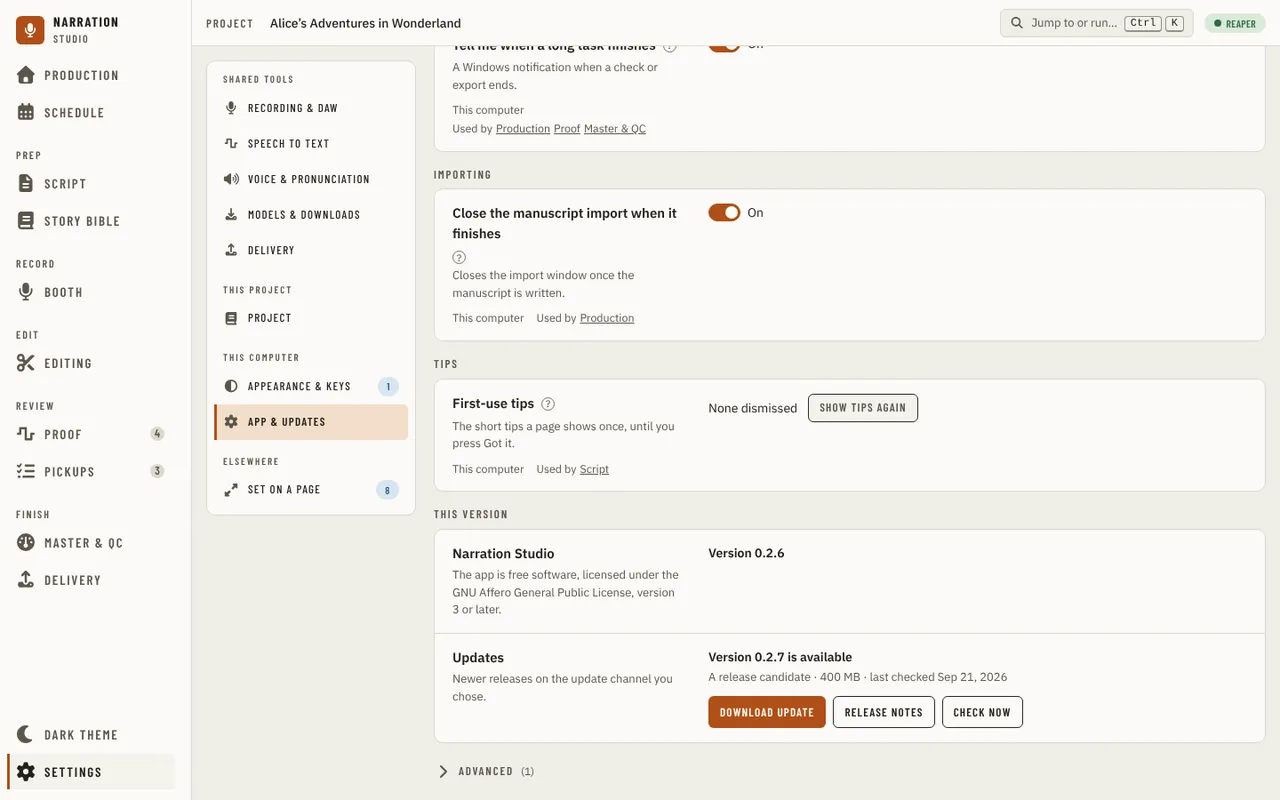
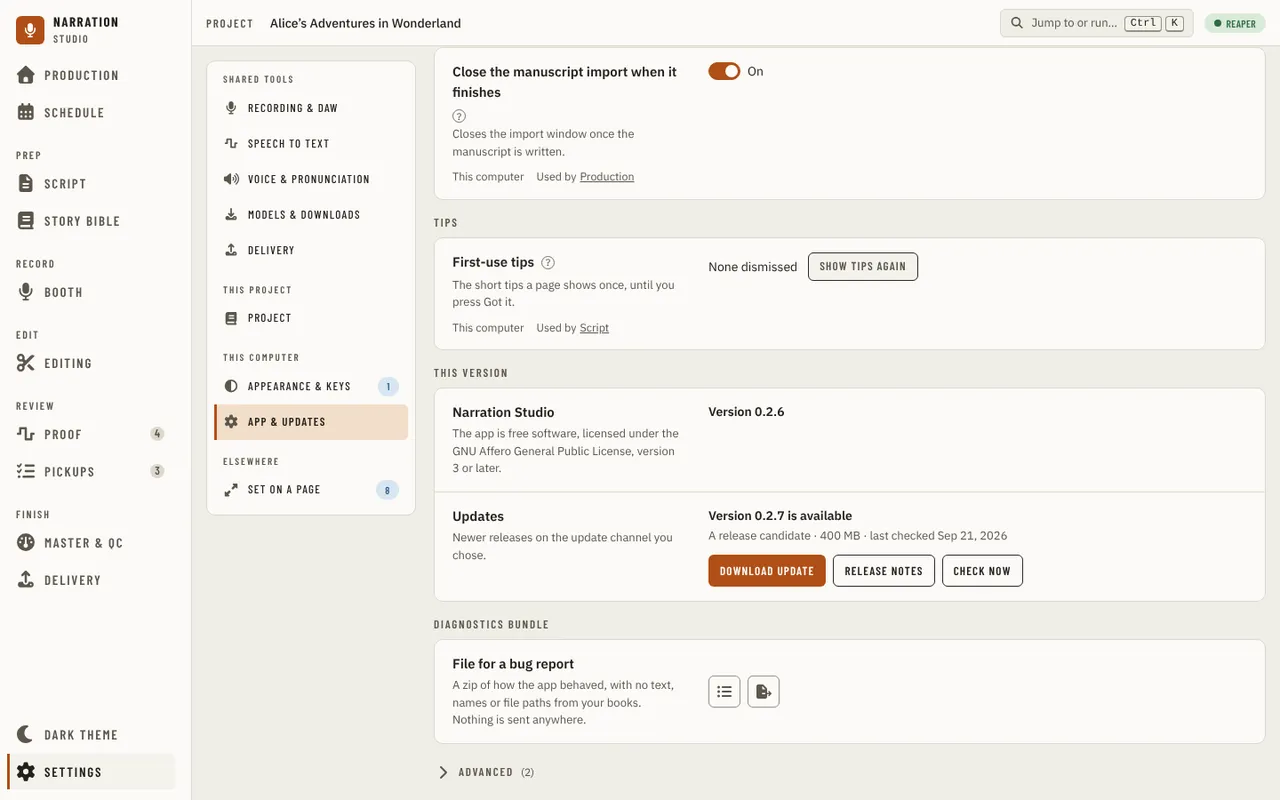
feat(ui): diagnostics bundle preview and save in settings (#2896)

diff --git a/src/studio/ui/src/components/settings/controls/DiagnosticsSection.tsx b/src/studio/ui/src/components/settings/controls/DiagnosticsSection.tsx
@@ -1,0 +1,130 @@
+import { useState } from 'react';
+import { apiErrorMessage } from '../../../api/errorMessage';
+import type { DiagnosticsPreview } from '../../../api/contracts/system';
+import { useOverlay } from '../../../overlay/OverlayProvider';
+import { usePort } from '../../../ports/usePort';
+import { Dialog } from '../../primitives/Dialog';
+import { IconButton } from '../../primitives/IconButton';
+import { Panel } from '../../primitives/Panel';
+import { SectionLabel } from '../../primitives/SectionLabel';
+import { ABOUT_ROW } from './aboutRow';
+
+// Copies text to the clipboard; false when there is no clipboard or it refuses, so the toast still says where the file is.
+const copyText = async (text: string): Promise<boolean> => {
+  if (!navigator.clipboard) return false;
+  return navigator.clipboard.writeText(text).then(
+    () => true,
+    () => false,
+  );
+};
+
+const kilobytes = (bytes: number): string => `${Math.max(1, Math.round(bytes / 1024))} KB`;
+
+/**
+ * The diagnostics bundle under App & updates (named so it is not a second "Diagnostics" beside the Advanced rows of that name): look at what a diagnostics bundle would hold, then save it as a zip in a folder the narrator picks. The
+ * path is copied to the clipboard. Nothing is sent anywhere; the narrator attaches the file to an issue by hand. The preview is a
+ * dialog, so a long list of files never moves the page.
+ */
+export function DiagnosticsSection() {
+  const api = usePort('system');
+  const overlay = useOverlay();
+  const [preview, setPreview] = useState<DiagnosticsPreview>();
+  const [busy, setBusy] = useState<'preview' | 'save' | ''>('');
+
+  const showPreview = async () => {
+    setBusy('preview');
+    try {
+      setPreview(await api.systemDiagnosticsPreview());
+    } catch (failure) {
+      overlay.toast(apiErrorMessage(failure), { tone: 'error' });
+    } finally {
+      setBusy('');
+    }
+  };
+
+  const save = async () => {
+    setBusy('save');
+    try {
+      const { path } = await api.systemSaveDiagnostics();
+      if (!path) return; // the narrator closed the folder picker
+      const copied = await copyText(path);
+      overlay.toast(copied ? `Saved to ${path}. The path is copied.` : `Saved to ${path}.`);
+    } catch (failure) {
+      overlay.toast(apiErrorMessage(failure), { tone: 'error' });
+    } finally {
+      setBusy('');
+    }
+  };
+
+  return (
+    <section aria-label="Diagnostics bundle" className="flex flex-col">
+      <SectionLabel as="h3" className="mb-1.5">
+        Diagnostics bundle
+      </SectionLabel>
+      <Panel flush>
+        <div className={ABOUT_ROW} data-about="diagnostics">
+          <div className="flex min-w-0 flex-col gap-[3px]">
+            <b className="text-[0.9375rem] font-semibold">File for a bug report</b>
+            <span className="max-w-[60ch] text-[0.8125rem] text-[var(--text-muted)]">
+              A zip of how the app behaved, with no text, names or file paths from your books. Nothing is sent anywhere.
+            </span>
+          </div>
+          <div className="flex items-center gap-2">
+            <IconButton
+              action="list"
+              label="Preview the diagnostics bundle"
+              aria-haspopup="dialog"
+              pending={busy === 'preview'}
+              onClick={() => void showPreview()}
+            />
+            <IconButton action="export" label="Save the diagnostics bundle" pending={busy === 'save'} onClick={() => void save()} />
+          </div>
+        </div>
+      </Panel>
+      {preview && (
+        <Dialog
+          title="Diagnostics bundle"
+          size="wide"
+          dismissOnOutsidePress
+          onClose={() => setPreview(undefined)}
+          actions={<IconButton action="export" label="Save the diagnostics bundle" pending={busy === 'save'} onClick={() => void save()} />}
+        >
+          <div className="flex max-h-[60dvh] flex-col gap-4 overflow-y-auto text-[0.875rem]">
+            <section aria-label="Included" className="flex flex-col gap-1.5">
+              <SectionLabel as="p">Included</SectionLabel>
+              {preview.files.length === 0 ? (
+                <p className="m-0 text-[var(--text-muted)]">Nothing has been recorded yet.</p>
+              ) : (
+                <ul className="m-0 flex list-none flex-col gap-1 p-0">
+                  {preview.files.map((file) => (
+                    <li key={file.name} className="flex flex-wrap justify-between gap-x-4">
+                      <span>
+                        <b className="font-semibold">{file.name}</b> <span className="text-[var(--text-muted)]">{file.source}</span>
+                      </span>
+                      <span className="text-[var(--text-muted)]">
+                        {file.lines} lines, {kilobytes(file.bytes)}
+                      </span>
+                    </li>
+                  ))}
+                </ul>
+              )}
+            </section>
+            <section aria-label="Left out" className="flex flex-col gap-1.5">
+              <SectionLabel as="p">Left out</SectionLabel>
+              <ul className="m-0 flex list-none flex-col gap-1 p-0">
+                {preview.excluded.map((item) => (
+                  <li key={item.name}>
+                    <b className="font-semibold">{item.name}</b> <span className="text-[var(--text-muted)]">{item.reason}</span>
+                  </li>
+                ))}
+              </ul>
+            </section>
+            <p className="m-0 text-[var(--text-muted)]">
+              Leak check: {preview.leakCheck.linesDropped} {preview.leakCheck.linesDropped === 1 ? 'line' : 'lines'} dropped for naming you or your project.
+            </p>
+          </div>
+        </Dialog>
+      )}
+    </section>
+  );
+}

diff --git a/src/studio/ui/src/components/settings/controls/DiagnosticsSection.test.tsx b/src/studio/ui/src/components/settings/controls/DiagnosticsSection.test.tsx
@@ -1,0 +1,83 @@
+// @vitest-environment jsdom
+import { cleanup, fireEvent, render, screen, waitFor } from '@testing-library/react';
+import { afterEach, describe, expect, it, vi } from 'vitest';
+import { ApiProvider } from '../../../api/ApiContext';
+import { createMockApi } from '../../../api/mockApi';
+import { OverlayProvider } from '../../../overlay/OverlayProvider';
+import { createOverlayService } from '../../../overlay/overlayService';
+import type { NarrationApi } from '../../../types';
+import { DiagnosticsSection } from './DiagnosticsSection';
+
+afterEach(cleanup);
+
+function renderSection(overrides: Partial<NarrationApi> = {}) {
+  const service = createOverlayService();
+  const toast = vi.spyOn(service, 'toast');
+  render(
+    <ApiProvider api={createMockApi(overrides)}>
+      <OverlayProvider service={service}>
+        <DiagnosticsSection />
+      </OverlayProvider>
+    </ApiProvider>,
+  );
+  return toast;
+}
+
+describe('DiagnosticsSection', () => {
+  it('previews what the bundle holds and what it leaves out, and writes nothing', async () => {
+    const save = vi.fn(async () => ({ path: '' }));
+    renderSection({ systemSaveDiagnostics: save });
+    fireEvent.click(screen.getByRole('button', { name: 'Preview the diagnostics bundle' }));
+    const dialog = await screen.findByRole('dialog', { name: 'Diagnostics bundle' });
+    expect(dialog.textContent).toContain('trace.jsonl');
+    expect(dialog.textContent).toContain('sidecar stderr');
+    expect(dialog.textContent).toMatch(/0 lines dropped/);
+    expect(save).not.toHaveBeenCalled();
+  });
+
+  it('says what an empty bundle means when nothing was recorded', async () => {
+    renderSection({
+      systemDiagnosticsPreview: async () => ({
+        format: 1,
+        createdAt: '2026-09-26T12:00:00Z',
+        appVersion: '0.0.0-dev',
+        redactionVersion: 1,
+        traceEnabled: false,
+        files: [],
+        excluded: [],
+        leakCheck: { terms: 0, linesDropped: 1 },
+        note: '',
+      }),
+    });
+    fireEvent.click(screen.getByRole('button', { name: 'Preview the diagnostics bundle' }));
+    const dialog = await screen.findByRole('dialog', { name: 'Diagnostics bundle' });
+    expect(dialog.textContent).toContain('Nothing has been recorded yet.');
+    expect(dialog.textContent).toMatch(/1 line dropped/);
+  });
+
+  it('saves, copies the path and says where the file is', async () => {
+    const writeText = vi.fn(async () => undefined);
+    Object.defineProperty(navigator, 'clipboard', { value: { writeText }, configurable: true });
+    const toast = renderSection();
+    fireEvent.click(screen.getByRole('button', { name: 'Save the diagnostics bundle' }));
+    await waitFor(() => expect(writeText).toHaveBeenCalledWith('C:/Users/narrator/Documents/diagnostics-20260926T120000.zip'));
+    expect(toast).toHaveBeenCalledWith(expect.stringContaining('The path is copied'));
+  });
+
+  it('does nothing when the folder picker is closed', async () => {
+    const toast = renderSection({ systemSaveDiagnostics: async () => ({ path: '' }) });
+    fireEvent.click(screen.getByRole('button', { name: 'Save the diagnostics bundle' }));
+    await waitFor(() => expect(screen.getByRole('button', { name: 'Save the diagnostics bundle' }).getAttribute('aria-busy')).not.toBe('true'));
+    expect(toast).not.toHaveBeenCalled();
+  });
+
+  it('shows a failed save as an error toast', async () => {
+    const toast = renderSection({
+      systemSaveDiagnostics: async () => {
+        throw new Error('disk full');
+      },
+    });
+    fireEvent.click(screen.getByRole('button', { name: 'Save the diagnostics bundle' }));
+    await waitFor(() => expect(toast).toHaveBeenCalledWith(expect.stringContaining('disk full'), { tone: 'error' }));
+  });
+});

diff --git a/src/studio/ui/src/interactionFeedback/settings.ts b/src/studio/ui/src/interactionFeedback/settings.ts
@@ -54,6 +54,9 @@ export const settingsFeedback: Record<string, FeedbackRow> = {
   'src/components/settings/models/AssetsStore.tsx::assetsVerify#1': row('click', 'file-io', 'pending', 'pending', 'ui', 'toast', 'yes', 'ok', 'Check the files (issue 2731), on an installed row only, reads every byte of the asset, seconds for a large model. The row shows Checking the files and the button spins and ignores another press; the running check is kept per host, so the row is still busy when the pane or the page is opened again. The row then follows the answer, with no toast: installed (the list read again, and the pill reads Installed · checked with the time), Needs repair, or Not installed, each said in the page live region, and focus moves to Repair or Download when the pressed button goes. A refusal is an error toast in the host words, and a host that has not answered in two minutes is given up on with an error toast; after either the pill reads Installed, not checked, until a check passes or a download replaces the files.'),
   'src/components/settings/controls/modelsControls.tsx::assetsOpenFolder#1': row('click', 'os-dialog', 'none', 'none', 'ui', 'toast', 'na', 'ok', 'Open folder, on the Models folder row, opens the file manager on the folder the host keeps the downloads in; it takes no path and is instant. A refusal (no file manager, the folder gone) is an error toast in the host words.'),
   'src/components/settings/page/ModelsPane.tsx::assetsOpenFolder#1': row('click', 'os-dialog', 'none', 'none', 'ui', 'inline', 'na', 'ok', 'Open the folder, on the list-could-not-be-read banner, opens the file manager on the folder the host keeps the downloads in; it takes no path and is instant. A refusal (no file manager, the folder gone) is the notice under the banner, in the host words.'),
+  // App & updates: the diagnostics bundle
+  'src/components/settings/controls/DiagnosticsSection.tsx::systemDiagnosticsPreview#1': row('click', 'file-io', 'pending', 'pending', 'dialog', 'toast', 'na', 'ok', 'Preview spins its button while the host reads the logs, then opens the dialog that lists what the bundle holds; nothing is written, and a failure is an error toast.'),
+  'src/components/settings/controls/DiagnosticsSection.tsx::systemSaveDiagnostics#1': row('click', 'os-dialog', 'pending', 'pending', 'toast', 'toast', 'no', 'ok', 'Save (on the row and in the preview dialog) spins its button through the folder picker and the write, then a toast says where the zip is and that its path is copied; a closed picker does nothing, and a failure is an error toast.'),
   // App & updates › Diagnostics: the log folder beside Debug logging (issue 2730)
   'src/components/settings/row/OpenLogFolderButton.tsx::systemOpenLogFolder#1': row('click', 'os-dialog', 'pending', 'pending', 'ui', 'toast', 'na', 'ok', 'The folder icon beside Debug logging opens the file manager on the folder the host writes the run log in; it takes no path and needs no project. The button spins and ignores a second press until the host answers, also when drawn again after leaving the category; success is the file manager itself with no toast; a refusal (the folder gone, no file manager) is an error toast in the host words, and no answer in 15 seconds frees the button with an error toast that says so.'),
   // Recording & DAW: the recording tool row (was the Recording and DAW Integration panels)

diff --git a/src/studio/ui/src/components/settings/controls/AboutSection.tsx b/src/studio/ui/src/components/settings/controls/AboutSection.tsx
@@ -7,12 +7,9 @@ import { useSettingsStore } from '../data/SettingsStore';
 import { computerValue } from '../data/values';
 import { rowOf } from '../registry/rows';
 import { useSettingsHost } from '../row/SettingsHost';
+import { ABOUT_ROW } from './aboutRow';
 
 const CHANNEL = rowOf('app.channel')!;
-
-// The settings row's two columns (row/SettingRowView.tsx), so the version and the updates line up with the rows above (alignment audit XSE1-7, R3SE2-18).
-const ROW =
-  'grid gap-x-8 gap-y-1.5 border-t border-[var(--border)] px-5 py-4 first:border-t-0 @min-[761px]:grid-cols-[12rem_minmax(0,1fr)] @min-[860px]:grid-cols-[minmax(12rem,16rem)_minmax(0,1fr)]';
 
 /**
  * The version, and the update check, under App & updates: what is running, whether a newer release exists on the channel set above, and the
@@ -29,7 +26,7 @@ export function AboutSection() {
         This version
       </SectionLabel>
       <Panel flush>
-        <div className={ROW} data-about="version">
+        <div className={ABOUT_ROW} data-about="version">
           <div className="flex min-w-0 flex-col gap-[3px]">
             <b className="text-[0.9375rem] font-semibold">{brand.name}</b>
             <span className="max-w-[60ch] text-[0.8125rem] text-[var(--text-muted)]">
@@ -38,7 +35,7 @@ export function AboutSection() {
           </div>
           <AboutPanel version={data.version} />
         </div>
-        <div className={ROW} data-about="updates">
+        <div className={ABOUT_ROW} data-about="updates">
           <div className="flex min-w-0 flex-col gap-[3px]">
             <b className="text-[0.9375rem] font-semibold">Updates</b>
             <span className="max-w-[60ch] text-[0.8125rem] text-[var(--text-muted)]">Newer releases on the update channel you chose.</span>

diff --git a/src/studio/ui/src/components/settings/page/SettingsPage.tsx b/src/studio/ui/src/components/settings/page/SettingsPage.tsx
@@ -18,6 +18,7 @@ import { isAnyChanged, isBrowserChanged, overrideValue } from '../data/values';
 import { isResettable, useRowResets, type RowReset } from '../data/rowResets';
 import { AssetsStoreProvider } from '../models/AssetsStore';
 import { AboutSection } from '../controls/AboutSection';
+import { DiagnosticsSection } from '../controls/DiagnosticsSection';
 import { CATEGORIES, categoryLabel } from '../registry/categories';
 import { PAGE_SETTINGS } from '../registry/pageSettings';
 import { ROWS } from '../registry/rows';
@@ -274,7 +275,14 @@ function Body({ initialCategory, cameFrom }: { initialCategory?: string; cameFro
               });
             }}
             lit={lit}
-            extra={cat === 'app' ? <AboutSection /> : undefined}
+            extra={
+              cat === 'app' ? (
+                <>
+                  <AboutSection />
+                  <DiagnosticsSection />
+                </>
+              ) : undefined
+            }
           />
         )}
       </fieldset>

diff --git a/src/studio/ui/tests/visual/drivers/settings.ts b/src/studio/ui/tests/visual/drivers/settings.ts
@@ -583,6 +583,12 @@ export const settingsDrivers: Record<string, Driver> = {
     await openUpdates(page, 'available');
     await page.getByText('Version 0.2.7 is available').waitFor();
   },
+  'diagnostics-preview': async (page) => {
+    await openSettings(page, 'App & updates');
+    await page.getByRole('region', { name: 'Diagnostics bundle' }).evaluate((panel) => panel.scrollIntoView({ block: 'start' }));
+    await page.getByRole('button', { name: 'Preview the diagnostics bundle' }).click();
+    await page.getByRole('dialog', { name: 'Diagnostics bundle' }).waitFor();
+  },
   'about-download-confirm': async (page) => {
     await openUpdates(page, 'available');
     await page.getByRole('button', { name: 'Download update' }).click();

diff --git a/src/studio/ui/tests/visual/prose/prose-inventory.ts b/src/studio/ui/tests/visual/prose/prose-inventory.ts
@@ -465,6 +465,16 @@ export const PROSE_INVENTORY: ProseEntry[] = [
     class: 'state',
   },
   {
+    file: 'components/settings/controls/DiagnosticsSection.tsx',
+    text: 'A zip of how the app behaved, with no text, names or file paths from your books. Nothing is sent anywhere.',
+    class: 'state',
+  },
+  {
+    file: 'components/settings/controls/DiagnosticsSection.tsx',
+    text: 'Leak check: … … dropped for naming you or your project.',
+    class: 'state',
+  },
+  {
     file: 'components/settings/controls/AboutSection.tsx',
     text: 'The app is free software, licensed under the GNU Affero General Public License, version 3 or later.',
     class: 'state',

diff --git a/src/studio/ui/src/interactionFeedback/retry.ts b/src/studio/ui/src/interactionFeedback/retry.ts
@@ -45,6 +45,8 @@ export const ERROR_TOAST_RETRY: Record<string, RetryJudgment> = {
   ),
   'src/components/settings/controls/ProjectBodies.tsx#2': no(BT),
   'src/components/settings/controls/SyncEnabledBody.tsx#1': no(BT),
+  'src/components/settings/controls/DiagnosticsSection.tsx#1': no(BT),
+  'src/components/settings/controls/DiagnosticsSection.tsx#2': no(BT),
   'src/components/settings/controls/VoicesBody.tsx#1': no(
     'The tracks are read again every time the window is focused, so the next focus repeats the read; the narrator is in REAPER when it matters.',
   ),

diff --git a/src/studio/ui/src/api/unwiredBindings.test.ts b/src/studio/ui/src/api/unwiredBindings.test.ts
@@ -20,7 +20,7 @@ function sources(dir: string): string[] {
  * Host bindings no screen calls (audit cluster 25, docs/research/ui-function-audit/inventory-shell.md section 1.7): either retired or never
  * wired. The list only shrinks: wire a binding (or delete it from the host) and take its name out, and a new binding cannot arrive without a caller.
  */
-const UNWIRED = ['systemDiagnosticsPreview', 'systemSaveDiagnostics'];
+const UNWIRED: string[] = [];
 
 const text = sources(root)
   .map((path) => readFileSync(path, 'utf8'))

diff --git a/src/studio/ui/tests/visual/catalog/settings.ts b/src/studio/ui/tests/visual/catalog/settings.ts
@@ -547,6 +547,12 @@ export const settingsStates: StateEntry[] = [
   },
   {
     page: 'settings',
+    state: 'diagnostics-preview',
+    description: 'Settings, App & updates: the diagnostics bundle preview dialog, with the files it holds, what it leaves out and the leak check',
+    ...REFLOW,
+  },
+  {
+    page: 'settings',
     state: 'about-download-confirm',
     description: 'Settings, App & updates: the confirm before an update is downloaded (?mockUpdate=available)',
     ...REFLOW,

diff --git a/src/studio/ui/tests/visual/overlays/settings.ts b/src/studio/ui/tests/visual/overlays/settings.ts
@@ -4,6 +4,7 @@ import { fromState, type OverlayCase } from '../helpers/overlayGuardFor';
 export const settingsCases: OverlayCase[] = [
   fromState('settings', 'marks-dialog'),
   fromState('settings', 'delivery-profile-editor'),
+  fromState('settings', 'diagnostics-preview'),
   fromState('settings', 'about-download-confirm'),
   fromState('settings', 'about-download-progress'),
   fromState('settings', 'about-install-confirm'),

diff --git a/src/studio/ui/src/components/settings/controls/aboutRow.ts b/src/studio/ui/src/components/settings/controls/aboutRow.ts
@@ -1,0 +1,3 @@
+/** The settings row's two columns (row/SettingRowView.tsx), shared by the rows of the App & updates sections that are not registry rows (AboutSection, DiagnosticsSection). */
+export const ABOUT_ROW =
+  'grid gap-x-8 gap-y-1.5 border-t border-[var(--border)] px-5 py-4 first:border-t-0 @min-[761px]:grid-cols-[12rem_minmax(0,1fr)] @min-[860px]:grid-cols-[minmax(12rem,16rem)_minmax(0,1fr)]';
